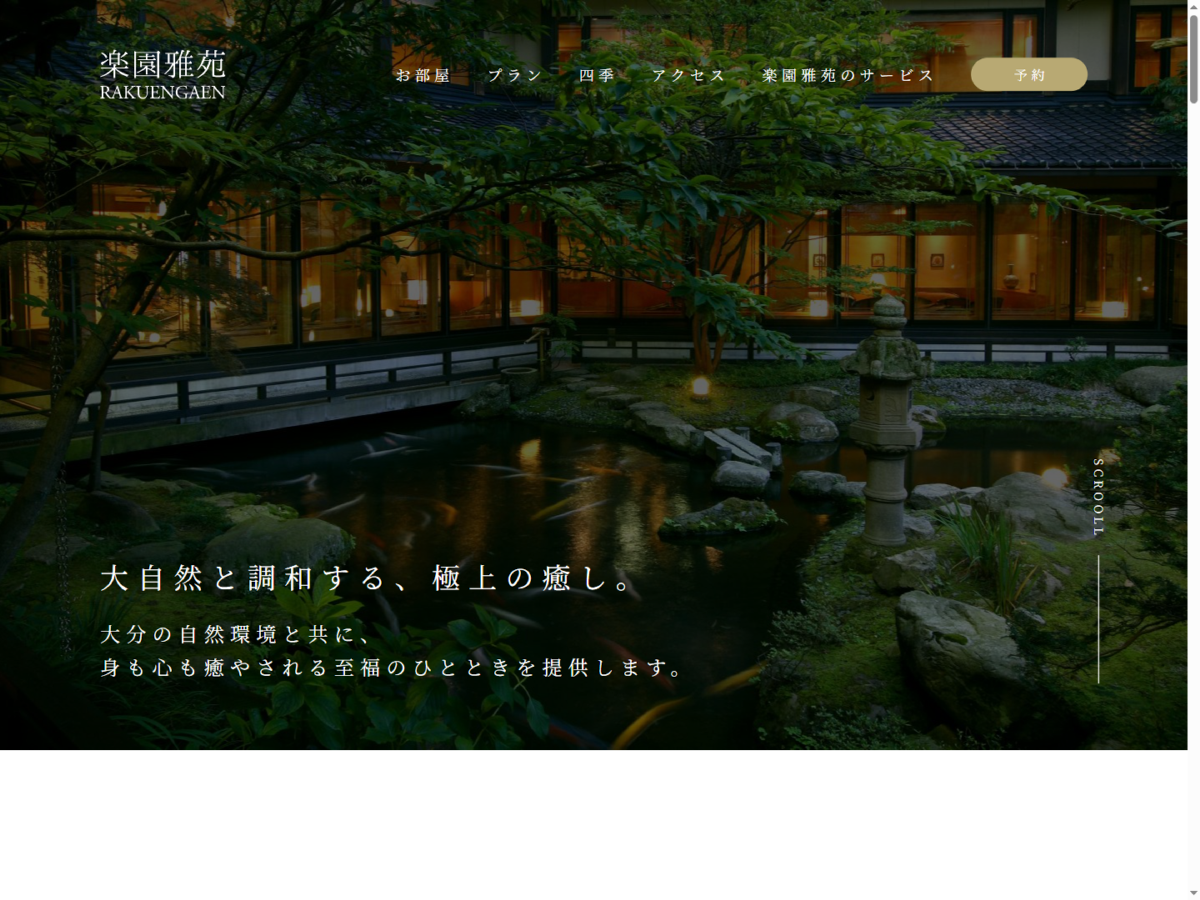
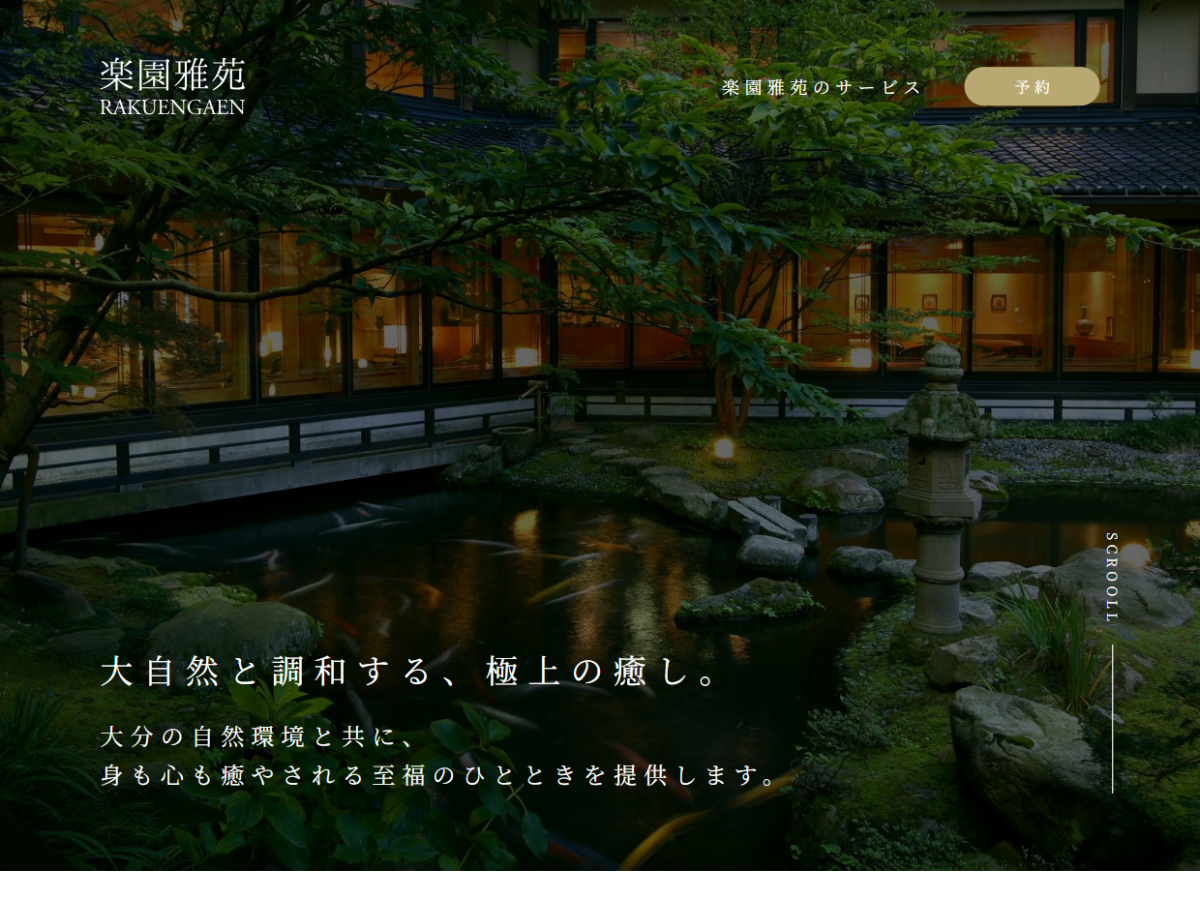
fix: cssの修正 (#5)
* 手順5: 404.php をWordPress用に作り直し、管理バー対応のCSSを追加

- 404.php: 静的サイト版から移植
  - get_header() / get_footer() を使う形に変更（wp_head / wp_footer が入る）
  - http_response_code(404) と <title>・noindex の記述を削除
    （404 の返却と <title> は WordPress 側が行う）
  - パンくずを template-parts/breadcrumb.php に変更
  - トップへ戻るボタンのリンクを home_url() に変更
  - クラス名（p-page-head / p-notfound / c-btn-more / l-inner）は変更なし
- assets/css/style.css: ログイン中に管理バーとヘッダーが重なる問題に対応
  .admin-bar .l-header--transparent を 32px（782px以下は46px）下げる

* 手順5: ログイン中にドロワーがヘッダーに重なる問題を修正

ドロワー（.l-header__nav）は position: fixed で画面上端を基準に
位置が決まるため、管理バーのぶん下がったヘッダーと重なり、
ロゴと閉じるボタンが隠れていた。

ヘッダーと同じだけドロワーも下げる指定を追加：
  .admin-bar .l-header__nav { top: calc(var(--header-height) + 32px) }
  782px 以下は + 46px

1240px 以上ではドロワーをやめて横並びに戻す（position: static）ため、
この指定は影響しない。

* 手順5: screenshot.png を撮り直し（1200×900・スクロールバー無し）

- 撮影幅を 1240px（PC版ナビが出る最小幅）にして、ヒーロー（高さ900px）が
  画面いっぱいに収まる 1240×930 で撮影し、1200×900 に縮小
- 撮影時にスクロールバーを非表示にするCSSを一時適用（テーマのCSSは変更なし）

---------

diff --git a/assets/css/style.css b/assets/css/style.css
@@ -234,6 +234,22 @@ body.is-nav-open {
     background-color: transparent;
 }
 
+/* ログイン中だけ、WordPress の管理バーのぶんだけ下げる。
+   管理バーは html に margin-top を付けて本文を押し下げるが、
+   position: absolute のこのヘッダーはその影響を受けずページ最上部に
+   留まるため、そのままだと管理バーの下に潜り込んでしまう。
+   admin-bar クラスは、ログイン中に WordPress が body に付ける。
+   32px / 46px は管理バーの高さ（782px 以下で高くなる）。 */
+.admin-bar .l-header--transparent {
+    top: 32px;
+}
+
+@media screen and (max-width: 782px) {
+    .admin-bar .l-header--transparent {
+        top: 46px;
+    }
+}
+
 .l-header__inner {
     display: flex;
     align-items: center;
@@ -280,6 +296,22 @@ body.is-nav-open {
 .l-header__nav.is-open {
     opacity: 1;
     visibility: visible;
+}
+
+/* ログイン中は、ヘッダーと同じだけドロワーも下げる。
+   ドロワーは position: fixed で画面上端を基準に位置が決まるため、
+   管理バーのぶんを足さないとヘッダー（ロゴ・閉じるボタン）に
+   重なってしまう。値はヘッダーの位置と揃える。
+   ※ 1240px 以上ではドロワーをやめて横並びに戻す（position: static）ため、
+     この指定は無視される */
+.admin-bar .l-header__nav {
+    top: calc(var(--header-height) + 32px);
+}
+
+@media screen and (max-width: 782px) {
+    .admin-bar .l-header__nav {
+        top: calc(var(--header-height) + 46px);
+    }
 }
 
 /* ドロワー上部：ブランドカラーの面に主要5項目を縦積み（40px ピッチ） */

diff --git a/404.php b/404.php
@@ -2,31 +2,30 @@
 /* =============================================================
    404（ページが見つかりません）
 
+   WordPress は、該当する投稿・固定ページが見つからないときに
+   このファイルを使う（テンプレート名が予約されている）。
+
    Figma にこのページのデザインは無いため、既存の部品だけで組んでいる。
    ページ見出し（.p-page-head）と、TOP へ戻るボタン（.c-btn-more）。
    新しい見た目は足していない。
 
-   .htaccess の ErrorDocument からこのファイルを指している。
-   その場合 PHP は 200 を返してしまうので、先頭で 404 を送り直す。
-   「見つからない」と表示しながら 200 を返すと、検索エンジンに
-   中身のあるページとして登録されてしまうため。
+   静的サイト版からの変更点：
+     ・http_response_code(404) は不要（WordPress が 404 を返す）
+     ・<title> と noindex も不要
+       （title-tag と WordPress の自動 noindex に任せる）
+     ・パンくずは template-parts/breadcrumb.php を使う
+     ・リンク先は home_url()
    ============================================================= */
 
-http_response_code(404);
+get_header();
 
-$page_title       = 'ページが見つかりません｜楽園雅苑';
-$page_description = 'お探しのページは見つかりませんでした。';
-$page_noindex     = true;
-
-$breadcrumb = [
-    ['href' => '/', 'label' => 'トップ'],
-    ['label' => 'ページが見つかりません'],
-];
-
-require __DIR__ . '/includes/header.php';
+get_template_part('template-parts/breadcrumb', null, [
+    'items' => [
+        ['href' => home_url('/'), 'label' => 'トップ'],
+        ['label' => 'ページが見つかりません'],
+    ],
+]);
 ?>
-
-        <?php require __DIR__ . '/includes/breadcrumb.php'; ?>
 
         <div class="p-page-head">
             <h1 class="p-page-head__title">ページが見つかりません</h1>
@@ -38,7 +37,7 @@ require __DIR__ . '/includes/header.php';
                 <p class="p-page-lead">お探しのページは、移動または削除された可能性があります。お手数ですが、トップページからお探しください。</p>
 
                 <div class="p-notfound__action">
-                    <a class="c-btn-more" href="/">
+                    <a class="c-btn-more" href="<?php echo esc_url(home_url('/')); ?>">
                         <span class="c-btn-more__label">トップページへ</span>
                         <svg class="c-btn-more__arrow" width="21" height="7" viewBox="0 0 21.2125 6.85466"
                              fill="none" aria-hidden="true" focusable="false">
@@ -49,4 +48,5 @@ require __DIR__ . '/includes/header.php';
             </div>
         </section>
 
-<?php require __DIR__ . '/includes/footer.php'; ?>
+<?php
+get_footer();
